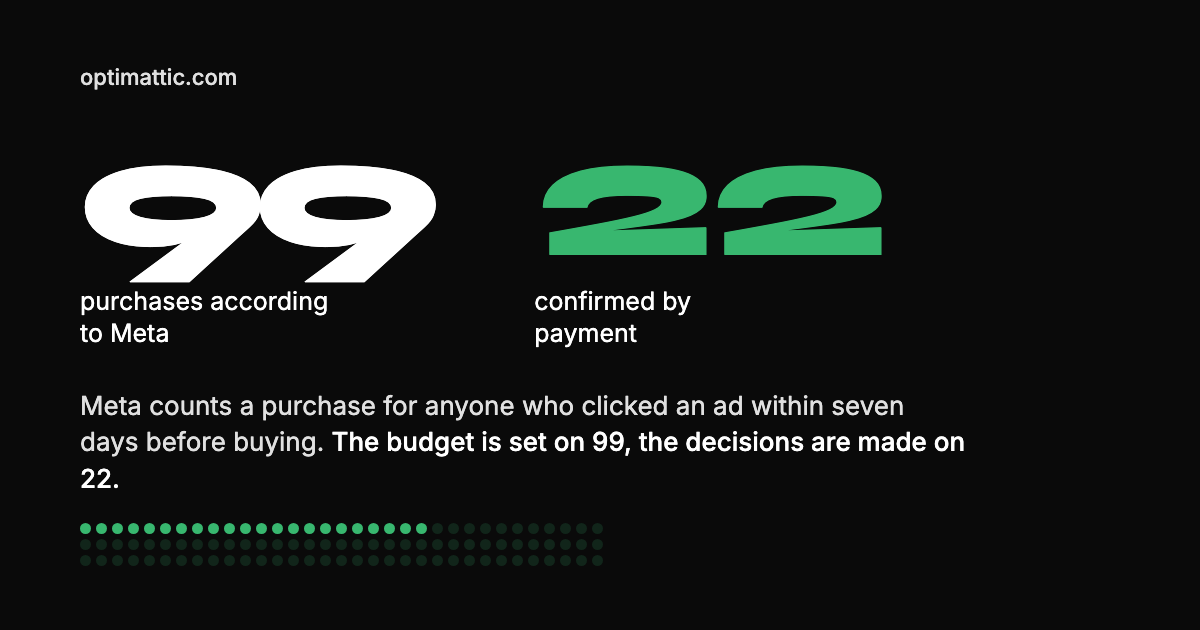
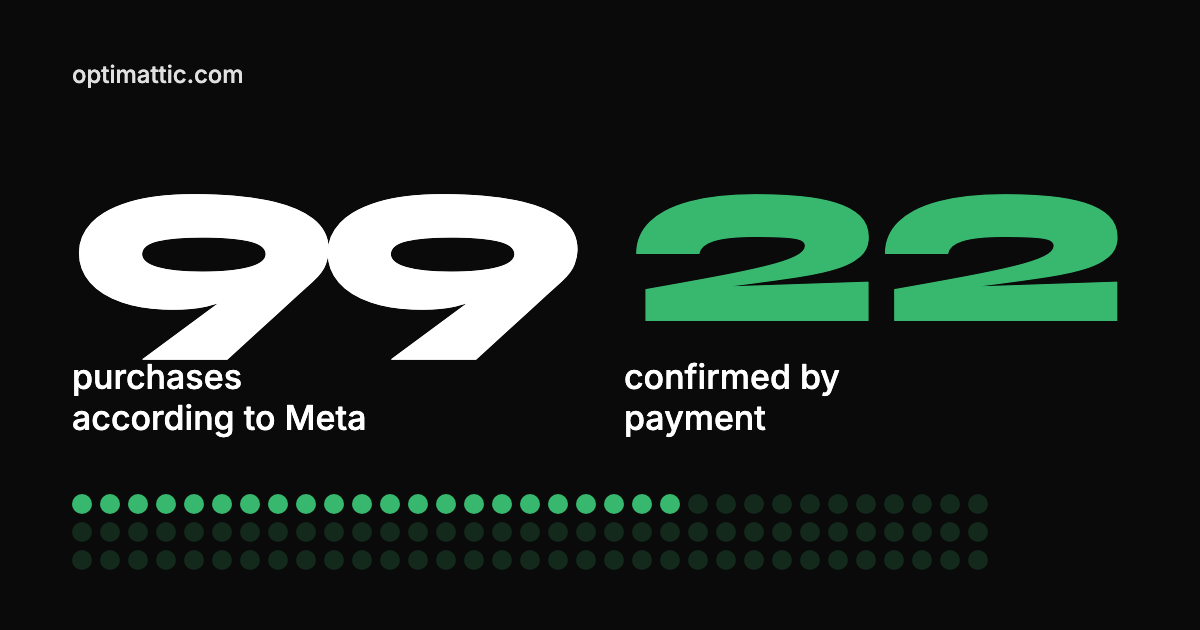
Karta og czytelna w miniaturze, wyjaśnienie w og:description

Changed region(s): [[0.0617, 0.2413, 0.9558, 0.9048], [0.0617, 0.0905, 0.2158, 0.1508]]

diff --git a/og/card-en.html b/og/card-en.html
@@ -11,32 +11,28 @@
   *,*::before,*::after{box-sizing:border-box}
   html,body{margin:0;padding:0;background:#666}
   .card{width:1200px;height:630px;background:#0A0A0A;color:#FFFFFF;
-    font-family:'Inter',sans-serif;padding:64px 80px;
+    font-family:'Inter',sans-serif;padding:60px 72px;
     display:flex;flex-direction:column;justify-content:space-between;overflow:hidden}
-  .brand{font-size:22px;font-weight:500;color:#E0E0E0}
-  .row{display:flex;align-items:flex-end;gap:104px}
-  .num{font-family:'Syne',sans-serif;font-weight:800;font-size:176px;line-height:.78;
+  .brand{font-size:24px;font-weight:500;color:#E0E0E0}
+  .row{display:flex;align-items:flex-end;justify-content:space-between;gap:48px}
+  .col{flex:1}
+  .num{font-family:'Syne',sans-serif;font-weight:800;font-size:250px;line-height:.76;
     letter-spacing:-.06em;font-variant-numeric:tabular-nums}
   .num--kept{color:#38B76F}
-  .lbl{font-size:25px;line-height:1.25;margin-top:20px;max-width:16ch}
-  .note{font-size:26px;line-height:1.4;color:#E0E0E0;max-width:54ch;margin-bottom:26px}
-  .note b{color:#FFFFFF;font-weight:500}
-  .dots{display:grid;grid-template-columns:repeat(33,11px);gap:5px;width:max-content}
-  .dot{width:11px;height:11px;border-radius:50%;background:#38B76F}
-  .dot--lost{opacity:.16}
+  .lbl{font-size:34px;line-height:1.2;margin-top:22px;max-width:14ch;font-weight:500}
+  .dots{display:grid;grid-template-columns:repeat(33,20px);gap:8px;width:max-content}
+  .dot{width:20px;height:20px;border-radius:50%;background:#38B76F}
+  .dot--lost{opacity:.18}
 </style>
 </head>
 <body>
 <div class="card">
   <div class="brand">optimattic.com</div>
   <div class="row">
-    <div><div class="num">99</div><div class="lbl">purchases according to Meta</div></div>
-    <div><div class="num num--kept">22</div><div class="lbl">confirmed by payment</div></div>
+    <div class="col"><div class="num">99</div><div class="lbl">purchases according to Meta</div></div>
+    <div class="col"><div class="num num--kept">22</div><div class="lbl">confirmed by payment</div></div>
   </div>
-  <div>
-    <div class="note">Meta counts a purchase for anyone who clicked an ad within seven days before buying. <b>The budget is set on 99, the decisions are made on 22.</b></div>
-    <div class="dots"><span class="dot"></span><span class="dot"></span><span class="dot"></span><span class="dot"></span><span class="dot"></span><span class="dot"></span><span class="dot"></span><span class="dot"></span><span class="dot"></span><span class="dot"></span><span class="dot"></span><span class="dot"></span><span class="dot"></span><span class="dot"></span><span class="dot"></span><span class="dot"></span><span class="dot"></span><span class="dot"></span><span class="dot"></span><span class="dot"></span><span class="dot"></span><span class="dot"></span><span class="dot dot--lost"></span><span class="dot dot--lost"></span><span class="dot dot--lost"></span><span class="dot dot--lost"></span><span class="dot dot--lost"></span><span class="dot dot--lost"></span><span class="dot dot--lost"></span><span class="dot dot--lost"></span><span class="dot dot--lost"></span><span class="dot dot--lost"></span><span class="dot dot--lost"></span><span class="dot dot--lost"></span><span class="dot dot--lost"></span><span class="dot dot--lost"></span><span class="dot dot--lost"></span><span class="dot dot--lost"></span><span class="dot dot--lost"></span><span class="dot dot--lost"></span><span class="dot dot--lost"></span><span class="dot dot--lost"></span><span class="dot dot--lost"></span><span class="dot dot--lost"></span><span class="dot dot--lost"></span><span class="dot dot--lost"></span><span class="dot dot--lost"></span><span class="dot dot--lost"></span><span class="dot dot--lost"></span><span class="dot dot--lost"></span><span class="dot dot--lost"></span><span class="dot dot--lost"></span><span class="dot dot--lost"></span><span class="dot dot--lost"></span><span class="dot dot--lost"></span><span class="dot dot--lost"></span><span class="dot dot--lost"></span><span class="dot dot--lost"></span><span class="dot dot--lost"></span><span class="dot dot--lost"></span><span class="dot dot--lost"></span><span class="dot dot--lost"></span><span class="dot dot--lost"></span><span class="dot dot--lost"></span><span class="dot dot--lost"></span><span class="dot dot--lost"></span><span class="dot dot--lost"></span><span class="dot dot--lost"></span><span class="dot dot--lost"></span><span class="dot dot--lost"></span><span class="dot dot--lost"></span><span class="dot dot--lost"></span><span class="dot dot--lost"></span><span class="dot dot--lost"></span><span class="dot dot--lost"></span><span class="dot dot--lost"></span><span class="dot dot--lost"></span><span class="dot dot--lost"></span><span class="dot dot--lost"></span><span class="dot dot--lost"></span><span class="dot dot--lost"></span><span class="dot dot--lost"></span><span class="dot dot--lost"></span><span class="dot dot--lost"></span><span class="dot dot--lost"></span><span class="dot dot--lost"></span><span class="dot dot--lost"></span><span class="dot dot--lost"></span><span class="dot dot--lost"></span><span class="dot dot--lost"></span><span class="dot dot--lost"></span><span class="dot dot--lost"></span><span class="dot dot--lost"></span><span class="dot dot--lost"></span><span class="dot dot--lost"></span><span class="dot dot--lost"></span><span class="dot dot--lost"></span><span class="dot dot--lost"></span><span class="dot dot--lost"></span></div>
-  </div>
+  <div class="dots"><span class="dot"></span><span class="dot"></span><span class="dot"></span><span class="dot"></span><span class="dot"></span><span class="dot"></span><span class="dot"></span><span class="dot"></span><span class="dot"></span><span class="dot"></span><span class="dot"></span><span class="dot"></span><span class="dot"></span><span class="dot"></span><span class="dot"></span><span class="dot"></span><span class="dot"></span><span class="dot"></span><span class="dot"></span><span class="dot"></span><span class="dot"></span><span class="dot"></span><span class="dot dot--lost"></span><span class="dot dot--lost"></span><span class="dot dot--lost"></span><span class="dot dot--lost"></span><span class="dot dot--lost"></span><span class="dot dot--lost"></span><span class="dot dot--lost"></span><span class="dot dot--lost"></span><span class="dot dot--lost"></span><span class="dot dot--lost"></span><span class="dot dot--lost"></span><span class="dot dot--lost"></span><span class="dot dot--lost"></span><span class="dot dot--lost"></span><span class="dot dot--lost"></span><span class="dot dot--lost"></span><span class="dot dot--lost"></span><span class="dot dot--lost"></span><span class="dot dot--lost"></span><span class="dot dot--lost"></span><span class="dot dot--lost"></span><span class="dot dot--lost"></span><span class="dot dot--lost"></span><span class="dot dot--lost"></span><span class="dot dot--lost"></span><span class="dot dot--lost"></span><span class="dot dot--lost"></span><span class="dot dot--lost"></span><span class="dot dot--lost"></span><span class="dot dot--lost"></span><span class="dot dot--lost"></span><span class="dot dot--lost"></span><span class="dot dot--lost"></span><span class="dot dot--lost"></span><span class="dot dot--lost"></span><span class="dot dot--lost"></span><span class="dot dot--lost"></span><span class="dot dot--lost"></span><span class="dot dot--lost"></span><span class="dot dot--lost"></span><span class="dot dot--lost"></span><span class="dot dot--lost"></span><span class="dot dot--lost"></span><span class="dot dot--lost"></span><span class="dot dot--lost"></span><span class="dot dot--lost"></span><span class="dot dot--lost"></span><span class="dot dot--lost"></span><span class="dot dot--lost"></span><span class="dot dot--lost"></span><span class="dot dot--lost"></span><span class="dot dot--lost"></span><span class="dot dot--lost"></span><span class="dot dot--lost"></span><span class="dot dot--lost"></span><span class="dot dot--lost"></span><span class="dot dot--lost"></span><span class="dot dot--lost"></span><span class="dot dot--lost"></span><span class="dot dot--lost"></span><span class="dot dot--lost"></span><span class="dot dot--lost"></span><span class="dot dot--lost"></span><span class="dot dot--lost"></span><span class="dot dot--lost"></span><span class="dot dot--lost"></span><span class="dot dot--lost"></span><span class="dot dot--lost"></span><span class="dot dot--lost"></span><span class="dot dot--lost"></span><span class="dot dot--lost"></span><span class="dot dot--lost"></span><span class="dot dot--lost"></span><span class="dot dot--lost"></span><span class="dot dot--lost"></span><span class="dot dot--lost"></span><span class="dot dot--lost"></span></div>
 </div>
 </body>
 </html>

diff --git a/og/card-pl.html b/og/card-pl.html
@@ -11,32 +11,28 @@
   *,*::before,*::after{box-sizing:border-box}
   html,body{margin:0;padding:0;background:#666}
   .card{width:1200px;height:630px;background:#0A0A0A;color:#FFFFFF;
-    font-family:'Inter',sans-serif;padding:64px 80px;
+    font-family:'Inter',sans-serif;padding:60px 72px;
     display:flex;flex-direction:column;justify-content:space-between;overflow:hidden}
-  .brand{font-size:22px;font-weight:500;color:#E0E0E0}
-  .row{display:flex;align-items:flex-end;gap:104px}
-  .num{font-family:'Syne',sans-serif;font-weight:800;font-size:176px;line-height:.78;
+  .brand{font-size:24px;font-weight:500;color:#E0E0E0}
+  .row{display:flex;align-items:flex-end;justify-content:space-between;gap:48px}
+  .col{flex:1}
+  .num{font-family:'Syne',sans-serif;font-weight:800;font-size:250px;line-height:.76;
     letter-spacing:-.06em;font-variant-numeric:tabular-nums}
   .num--kept{color:#38B76F}
-  .lbl{font-size:25px;line-height:1.25;margin-top:20px;max-width:16ch}
-  .note{font-size:26px;line-height:1.4;color:#E0E0E0;max-width:54ch;margin-bottom:26px}
-  .note b{color:#FFFFFF;font-weight:500}
-  .dots{display:grid;grid-template-columns:repeat(33,11px);gap:5px;width:max-content}
-  .dot{width:11px;height:11px;border-radius:50%;background:#38B76F}
-  .dot--lost{opacity:.16}
+  .lbl{font-size:34px;line-height:1.2;margin-top:22px;max-width:14ch;font-weight:500}
+  .dots{display:grid;grid-template-columns:repeat(33,20px);gap:8px;width:max-content}
+  .dot{width:20px;height:20px;border-radius:50%;background:#38B76F}
+  .dot--lost{opacity:.18}
 </style>
 </head>
 <body>
 <div class="card">
   <div class="brand">optimattic.com</div>
   <div class="row">
-    <div><div class="num">99</div><div class="lbl">zakupów według Meta</div></div>
-    <div><div class="num num--kept">22</div><div class="lbl">potwierdzone płatnością</div></div>
+    <div class="col"><div class="num">99</div><div class="lbl">zakupów według Meta</div></div>
+    <div class="col"><div class="num num--kept">22</div><div class="lbl">potwierdzone płatnością</div></div>
   </div>
-  <div>
-    <div class="note">Meta liczy zakup każdemu, kto kliknął reklamę w ciągu siedmiu dni przed zakupem. <b>Budżet ustawia się na 99, decyzje podejmuje na 22.</b></div>
-    <div class="dots"><span class="dot"></span><span class="dot"></span><span class="dot"></span><span class="dot"></span><span class="dot"></span><span class="dot"></span><span class="dot"></span><span class="dot"></span><span class="dot"></span><span class="dot"></span><span class="dot"></span><span class="dot"></span><span class="dot"></span><span class="dot"></span><span class="dot"></span><span class="dot"></span><span class="dot"></span><span class="dot"></span><span class="dot"></span><span class="dot"></span><span class="dot"></span><span class="dot"></span><span class="dot dot--lost"></span><span class="dot dot--lost"></span><span class="dot dot--lost"></span><span class="dot dot--lost"></span><span class="dot dot--lost"></span><span class="dot dot--lost"></span><span class="dot dot--lost"></span><span class="dot dot--lost"></span><span class="dot dot--lost"></span><span class="dot dot--lost"></span><span class="dot dot--lost"></span><span class="dot dot--lost"></span><span class="dot dot--lost"></span><span class="dot dot--lost"></span><span class="dot dot--lost"></span><span class="dot dot--lost"></span><span class="dot dot--lost"></span><span class="dot dot--lost"></span><span class="dot dot--lost"></span><span class="dot dot--lost"></span><span class="dot dot--lost"></span><span class="dot dot--lost"></span><span class="dot dot--lost"></span><span class="dot dot--lost"></span><span class="dot dot--lost"></span><span class="dot dot--lost"></span><span class="dot dot--lost"></span><span class="dot dot--lost"></span><span class="dot dot--lost"></span><span class="dot dot--lost"></span><span class="dot dot--lost"></span><span class="dot dot--lost"></span><span class="dot dot--lost"></span><span class="dot dot--lost"></span><span class="dot dot--lost"></span><span class="dot dot--lost"></span><span class="dot dot--lost"></span><span class="dot dot--lost"></span><span class="dot dot--lost"></span><span class="dot dot--lost"></span><span class="dot dot--lost"></span><span class="dot dot--lost"></span><span class="dot dot--lost"></span><span class="dot dot--lost"></span><span class="dot dot--lost"></span><span class="dot dot--lost"></span><span class="dot dot--lost"></span><span class="dot dot--lost"></span><span class="dot dot--lost"></span><span class="dot dot--lost"></span><span class="dot dot--lost"></span><span class="dot dot--lost"></span><span class="dot dot--lost"></span><span class="dot dot--lost"></span><span class="dot dot--lost"></span><span class="dot dot--lost"></span><span class="dot dot--lost"></span><span class="dot dot--lost"></span><span class="dot dot--lost"></span><span class="dot dot--lost"></span><span class="dot dot--lost"></span><span class="dot dot--lost"></span><span class="dot dot--lost"></span><span class="dot dot--lost"></span><span class="dot dot--lost"></span><span class="dot dot--lost"></span><span class="dot dot--lost"></span><span class="dot dot--lost"></span><span class="dot dot--lost"></span><span class="dot dot--lost"></span><span class="dot dot--lost"></span><span class="dot dot--lost"></span><span class="dot dot--lost"></span><span class="dot dot--lost"></span><span class="dot dot--lost"></span><span class="dot dot--lost"></span><span class="dot dot--lost"></span></div>
-  </div>
+  <div class="dots"><span class="dot"></span><span class="dot"></span><span class="dot"></span><span class="dot"></span><span class="dot"></span><span class="dot"></span><span class="dot"></span><span class="dot"></span><span class="dot"></span><span class="dot"></span><span class="dot"></span><span class="dot"></span><span class="dot"></span><span class="dot"></span><span class="dot"></span><span class="dot"></span><span class="dot"></span><span class="dot"></span><span class="dot"></span><span class="dot"></span><span class="dot"></span><span class="dot"></span><span class="dot dot--lost"></span><span class="dot dot--lost"></span><span class="dot dot--lost"></span><span class="dot dot--lost"></span><span class="dot dot--lost"></span><span class="dot dot--lost"></span><span class="dot dot--lost"></span><span class="dot dot--lost"></span><span class="dot dot--lost"></span><span class="dot dot--lost"></span><span class="dot dot--lost"></span><span class="dot dot--lost"></span><span class="dot dot--lost"></span><span class="dot dot--lost"></span><span class="dot dot--lost"></span><span class="dot dot--lost"></span><span class="dot dot--lost"></span><span class="dot dot--lost"></span><span class="dot dot--lost"></span><span class="dot dot--lost"></span><span class="dot dot--lost"></span><span class="dot dot--lost"></span><span class="dot dot--lost"></span><span class="dot dot--lost"></span><span class="dot dot--lost"></span><span class="dot dot--lost"></span><span class="dot dot--lost"></span><span class="dot dot--lost"></span><span class="dot dot--lost"></span><span class="dot dot--lost"></span><span class="dot dot--lost"></span><span class="dot dot--lost"></span><span class="dot dot--lost"></span><span class="dot dot--lost"></span><span class="dot dot--lost"></span><span class="dot dot--lost"></span><span class="dot dot--lost"></span><span class="dot dot--lost"></span><span class="dot dot--lost"></span><span class="dot dot--lost"></span><span class="dot dot--lost"></span><span class="dot dot--lost"></span><span class="dot dot--lost"></span><span class="dot dot--lost"></span><span class="dot dot--lost"></span><span class="dot dot--lost"></span><span class="dot dot--lost"></span><span class="dot dot--lost"></span><span class="dot dot--lost"></span><span class="dot dot--lost"></span><span class="dot dot--lost"></span><span class="dot dot--lost"></span><span class="dot dot--lost"></span><span class="dot dot--lost"></span><span class="dot dot--lost"></span><span class="dot dot--lost"></span><span class="dot dot--lost"></span><span class="dot dot--lost"></span><span class="dot dot--lost"></span><span class="dot dot--lost"></span><span class="dot dot--lost"></span><span class="dot dot--lost"></span><span class="dot dot--lost"></span><span class="dot dot--lost"></span><span class="dot dot--lost"></span><span class="dot dot--lost"></span><span class="dot dot--lost"></span><span class="dot dot--lost"></span><span class="dot dot--lost"></span><span class="dot dot--lost"></span><span class="dot dot--lost"></span><span class="dot dot--lost"></span><span class="dot dot--lost"></span><span class="dot dot--lost"></span><span class="dot dot--lost"></span><span class="dot dot--lost"></span><span class="dot dot--lost"></span></div>
 </div>
 </body>
 </html>

diff --git a/case-en.html b/case-en.html
@@ -9,7 +9,7 @@
 <link rel="alternate" hreflang="pl" href="https://optimattic.com/case.html">
 <link rel="alternate" hreflang="en" href="https://optimattic.com/case-en.html">
 <meta property="og:title" content="Case study: Grupa Mocy">
-<meta property="og:description" content="99 purchases according to Meta. 22 confirmed by payment. What followed.">
+<meta property="og:description" content="Meta counts a purchase for anyone who clicked an ad within seven days. The budget is set on 99, the decisions on 22.">
 <meta property="og:url" content="https://optimattic.com/case-en.html">
 <meta property="og:type" content="article">
 <meta property="og:image" content="https://optimattic.com/og-en.png">

diff --git a/case.html b/case.html
@@ -9,7 +9,7 @@
 <link rel="alternate" hreflang="pl" href="https://optimattic.com/case.html">
 <link rel="alternate" hreflang="en" href="https://optimattic.com/case-en.html">
 <meta property="og:title" content="Case study: Grupa Mocy">
-<meta property="og:description" content="99 zakupów według Meta. 22 potwierdzone płatnością. Co z tego wynikło.">
+<meta property="og:description" content="Meta liczy zakup każdemu, kto kliknął reklamę w ciągu siedmiu dni. Budżet ustawia się na 99, decyzje na 22.">
 <meta property="og:url" content="https://optimattic.com/case.html">
 <meta property="og:type" content="article">
 <meta property="og:image" content="https://optimattic.com/og-pl.png">

diff --git a/index.html b/index.html
@@ -14,7 +14,7 @@
 <link rel="alternate" hreflang="x-default" href="https://optimattic.com/">
 <link rel="alternate" hreflang="en" href="https://optimattic.com/en.html">
 <meta property="og:title" content="Wiesz, ile wydajesz. Zobacz, ile z tego wraca.">
-<meta property="og:description" content="99 zakupów według Meta. 22 potwierdzone płatnością.">
+<meta property="og:description" content="Meta liczy zakup każdemu, kto kliknął reklamę w ciągu siedmiu dni. Budżet ustawia się na 99, decyzje na 22.">
 <meta property="og:url" content="https://optimattic.com/">
 <meta property="og:type" content="website">
 <link rel="icon" type="image/png" href="favicon.png">

diff --git a/en.html b/en.html
@@ -15,7 +15,7 @@
 <link rel="alternate" hreflang="x-default" href="https://optimattic.com/">
 
 <meta property="og:title" content="You know what you spend. See what comes back.">
-<meta property="og:description" content="99 purchases according to Meta. 22 confirmed by payment.">
+<meta property="og:description" content="Meta counts a purchase for anyone who clicked an ad within seven days. The budget is set on 99, the decisions on 22.">
 <meta property="og:url" content="https://optimattic.com/en.html">
 <meta property="og:type" content="website">
 <link rel="icon" type="image/png" href="favicon.png">
